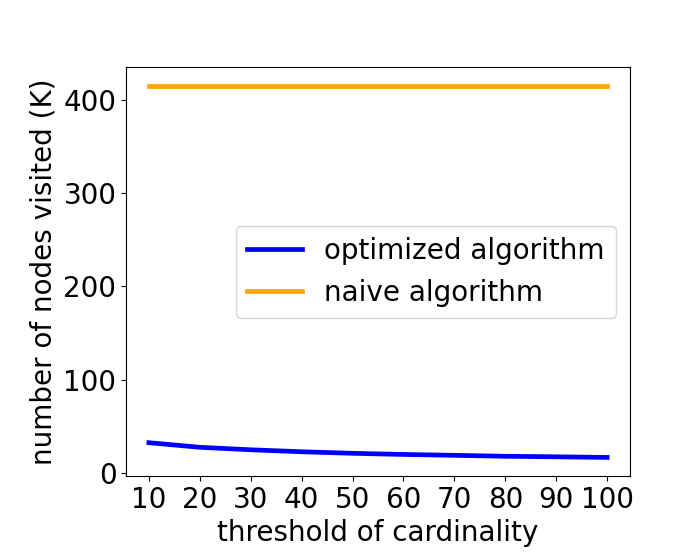
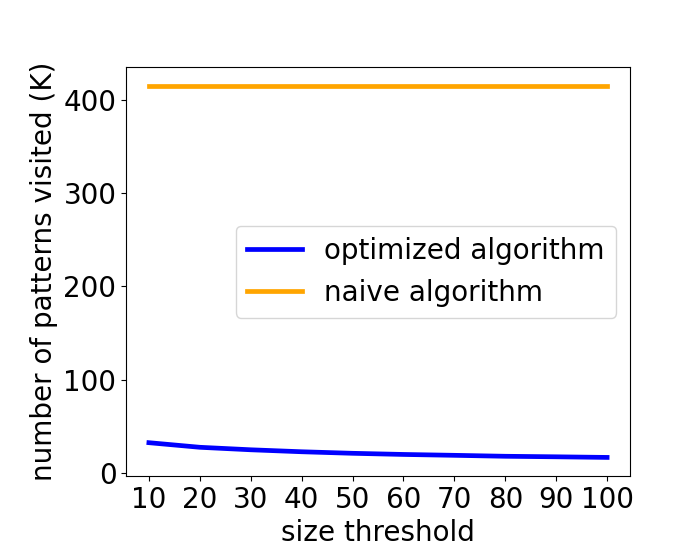
general, credit, thc

Changed region(s): [[0.03, 0.1214, 0.09, 0.85], [0.3, 0.9107, 0.78, 0.9714]]

diff --git a/Coding/Experiments/General_FP/CreditcardData/Thc_0_20210523.py b/Coding/Experiments/General_FP/CreditcardData/Thc_0_20210523.py
@@ -158,7 +158,7 @@ for n in range(len(Thc_list)):
 plt.plot(Thc_list, execution_time1, label="optimized algorithm", color='blue', linewidth = 3.4)
 plt.plot(Thc_list, execution_time2, label="naive algorithm", color='orange', linewidth = 3.4)
 
-plt.xlabel('threshold of cardinality')
+plt.xlabel('size threshold')
 plt.ylabel('execution time (s)')
 plt.xticks(Thc_list)
 plt.subplots_adjust(bottom=0.15, left=0.18)
@@ -170,8 +170,8 @@ plt.show()
 fig, ax = plt.subplots()
 plt.plot(Thc_list, num_calculation1, label="optimized algorithm", color='blue', linewidth = 3.4)
 plt.plot(Thc_list, num_calculation2, label="naive algorithm", color='orange', linewidth = 3.4)
-plt.xlabel('threshold of cardinality')
-plt.ylabel('number of nodes visited (K)')
+plt.xlabel('size threshold')
+plt.ylabel('number of patterns visited (K)')
 ax.yaxis.set_major_formatter(FuncFormatter(thousands_formatter))
 
 

diff --git a/Coding/Experiments/General_FP/CreditcardData/Thc_1_20210629.py b/Coding/Experiments/General_FP/CreditcardData/Thc_1_20210629.py
@@ -164,7 +164,7 @@ for n in range(len(Thc_list)):
 plt.plot(Thc_list, execution_time1, label="optimized algorithm", color='blue', linewidth = 3.4)
 plt.plot(Thc_list, execution_time2, label="naive algorithm", color='orange', linewidth = 3.4)
 
-plt.xlabel('threshold of cardinality')
+plt.xlabel('size threshold')
 plt.ylabel('execution time (s)')
 plt.xticks(Thc_list)
 plt.subplots_adjust(bottom=0.15, left=0.18)
@@ -176,8 +176,8 @@ plt.show()
 fig, ax = plt.subplots()
 plt.plot(Thc_list, num_calculation1, label="optimized algorithm", color='blue', linewidth = 3.4)
 plt.plot(Thc_list, num_calculation2, label="naive algorithm", color='orange', linewidth = 3.4)
-plt.xlabel('threshold of cardinality')
-plt.ylabel('number of nodes visited (K)')
+plt.xlabel('size threshold')
+plt.ylabel('number of patterns visited (K)')
 ax.yaxis.set_major_formatter(FuncFormatter(thousands_formatter))
 
 
